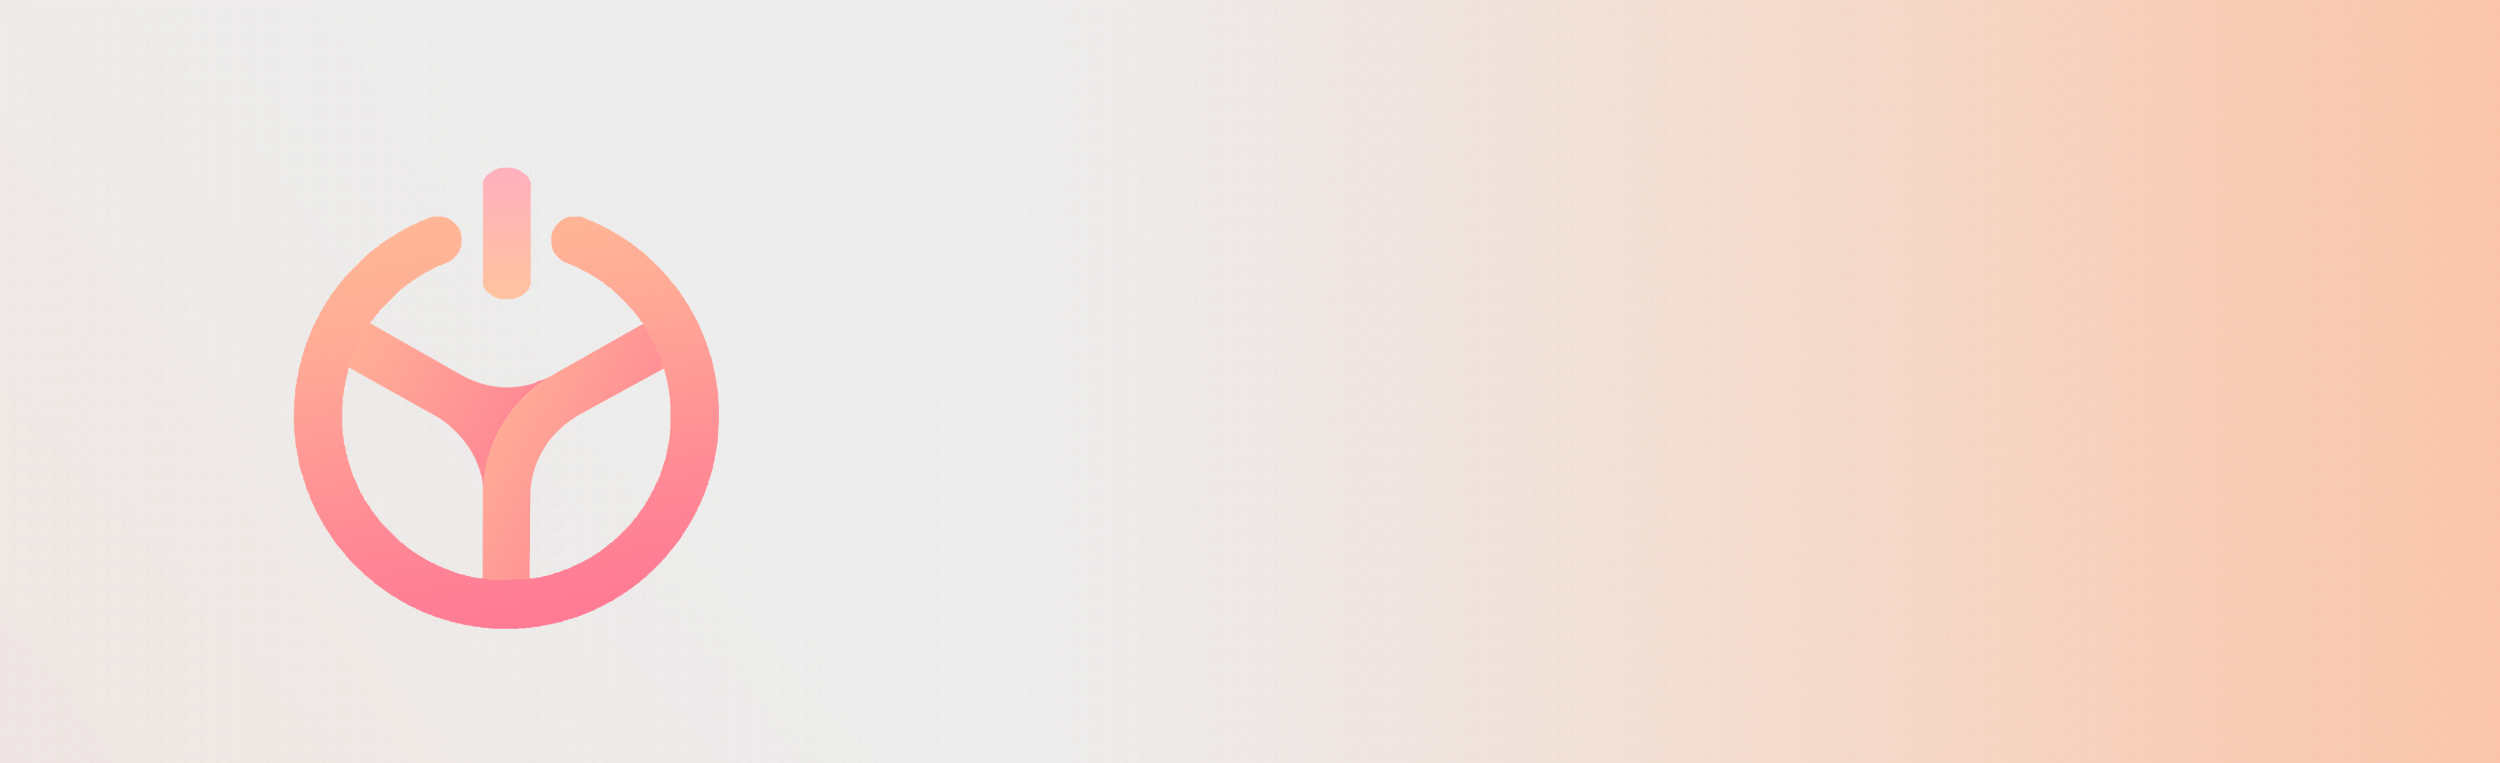
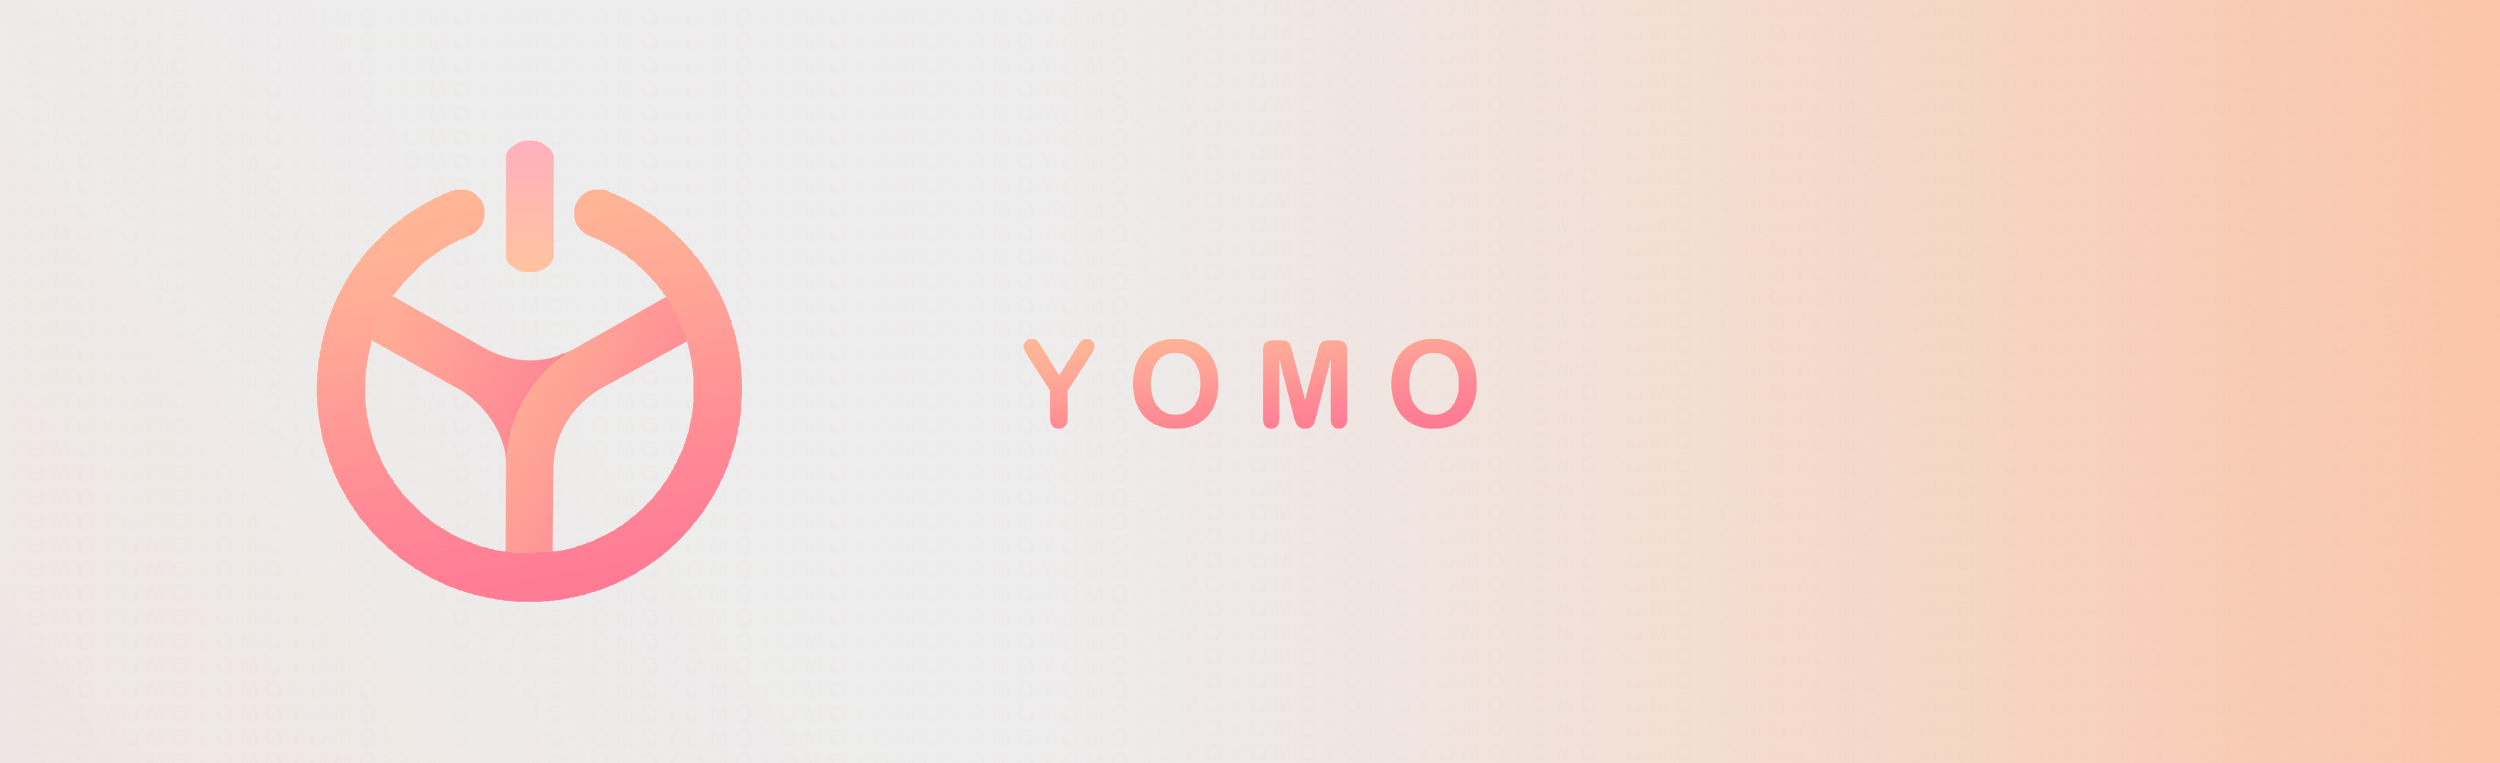
Fix: General Fixes

Changed region(s): [[0.0936, 0.1809, 0.312, 0.844], [0.4056, 0.422, 0.5928, 0.5727]]

diff --git a/falconair.html b/falconair.html
@@ -1,0 +1,264 @@
+<!DOCTYPE html>
+<html>
+  <head>
+    <link
+      href="https://www.dafontfree.net/embed/YXZlcnRhLWRlbW8tcGUtZXh0cmFib2xkLWl0YWxpYyZkYXRhLzMxOC9hLzE5MTM5NS9BdmVydGFEZW1vUEUtRXh0cmFib2xkSXRhbGljLm90Zg"
+      rel="stylesheet"
+      type="text/css"
+    />
+
+    <style>
+      @media only screen and (max-width: 767px) {
+        header h2 {
+          font-size: 1em;
+        }
+        header p {
+          font-size: 1.2em;
+        }
+      }
+
+      .aptusnaslov a {
+        color: white;
+      }
+
+      .scrollable-images {
+        display: flex;
+        overflow-x: scroll;
+        white-space: nowrap;
+      }
+      .scrollable-images::-webkit-scrollbar {
+        width: 1px;
+        height: 6px;
+        background-color: #f5f5f5;
+      }
+      ::-webkit-scrollbar-thumb {
+        background: rgb(229, 85, 109);
+      }
+
+      /* Handle on hover */
+      ::-webkit-scrollbar-thumb:hover {
+        background: #555;
+      }
+      .scrollable-images img {
+        height: 400px;
+        margin: 50px 0px 50px 0px;
+        opacity: 1;
+        transition: opacity 1s ease-in-out;
+      }
+      .scrollable-images img.scrolling {
+        opacity: 0;
+        animation: fadeOut 0.2 ease-in-out forwards;
+      }
+      @keyframes fadeOut {
+        from {
+          opacity: 1;
+        }
+        to {
+          opacity: 0;
+        }
+      }
+    </style>
+    <title>Aptus</title>
+    <meta charset="utf-8" />
+    <meta
+      name="viewport"
+      content="width=device-width, initial-scale=1, user-scalable=no"
+    />
+    <link rel="stylesheet" href="assets/css/main.css" />
+    <noscript
+      ><link rel="stylesheet" href="assets/css/noscript.css"
+    /></noscript>
+  </head>
+  <body class="is-preload">
+    <!-- Page Wrapper -->
+    <div id="page-wrapper">
+      <!-- Header -->
+      <header id="header">
+        <h1 class="aptusnaslov"><a href="index.html">Falcon Air</a></h1>
+        <nav id="nav">
+          <ul>
+            <li class="special">
+              <a href="#menu" class="menuToggle"><span></span></a>
+              <div id="menu">
+                <ul>
+                  <li><a href="index.html">Home</a></li>
+                  <li><a href="index.html">About</a></li>
+                  <li><a href="aptus.html">Aptus</a></li>
+                  <li><a href="yomo.html">Yomo</a></li>
+                  <li><a href="falconair.html">Falcon Air</a></li>
+                  <li><a href="cozylibrary.html">Cozy Library</a></li>
+                  <li><a href="absolutefit.html">Absolutefit</a></li>
+                  <li><a href="index.html">Contact</a></li>
+                </ul>
+              </div>
+            </li>
+          </ul>
+        </nav>
+      </header>
+
+      <!-- Main -->
+      <article id="main">
+        <header
+          style="
+            position: relative;
+            background-image: url(images/falconairbanner.jpg);
+            background-size: cover;
+            scale: 100%;
+          "
+        ></header>
+        <!-- 
+        <header style="position: relative; border: none; background-color:rgb(255, 142, 161)">
+          <img
+            src="images/aptusbanner.jpg"
+            style="width: 100%; height: 100%; max-width: 100%; max-height: 100%; border: none;"
+          />
+          <div
+            style="
+              position: absolute;
+              top: 50%;
+              left: 50%;
+              transform: translate(-50%, -50%);
+              text-align: center;
+            "
+          >
+            <h2 style="margin: 0">APTUS</h2>
+            <p style="margin: 0">Fitness App For Beginners</p>
+          </div>
+        </header>  -->
+
+        <section class="wrapper style5">
+          <div class="inner">
+            <h3>Role & Responsibilities</h3>
+            <p class="role">
+              Graphic Designer <br />
+              <br />
+              • Logo Creation <br />
+              • Typography <br />
+              • Usability Test <br />
+              • Visual Design
+            </p>
+
+            <hr />
+
+            <h3>Overview</h3>
+            <p class="overview">
+              It's really hard for small cities to have a simple and reliable
+              way of transport without spending too much financial resources.
+              Yomo was created as a solution to this problem and it offers a
+              simple way of navigating through the city, doing good both for the
+              city and the users.
+            </p>
+
+            <p>
+              It has two types of users:<br />
+              • Drivers who look for potential users who are looking for a
+              driver at the given moment. <br />
+              • Riders who look for currently available drivers. <br />
+              <br />
+              When driver leaves the rider at their targeted last stop, both of
+              them have the ability to rate their experience on each other,
+              making the app very user friendly.
+            </p>
+
+            <hr />
+
+            <h3>Context</h3>
+            <p>
+              This is my first project on a team. My job was to do research on
+              what is really needed in our local city and when it was later
+              decited to make a simple UI/UX prototype for the choosen app. This
+              was also my first time working in AdobeXD and getting fammiliar
+              with the abilities that the software has to offer.
+            </p>
+
+            <hr />
+
+            <h3>Prototype</h3>
+
+            <div class="scrollable-images">
+              <img src="images/yomo1.jpg" alt="Image 1" />
+              <img src="images/yomo2.jpg" alt="Image 2" />
+              <img src="images/yomo3.jpg" alt="Image 3" />
+              <img src="images/yomo3.1.jpg" alt="Image 4" />
+              <img src="images/yomo4.jpg" alt="Image 5" />
+              <img src="images/yomo5.jpg" alt="Image 6" />
+              <img src="images/yomo6.jpg" alt="Image 7" />
+              <img src="images/yomo7.jpg" alt="Image 8" />
+              <img src="images/yomo8.jpg" alt="Image 9" />
+              <img src="images/yomo9.jpg" alt="Image 10" />
+              <img src="images/yomo10.jpg" alt="Image 10" />
+              <img src="images/yomo11.jpg" alt="Image 10" />
+              <img src="images/yomo12.jpg" alt="Image 10" />
+              <img src="images/yomo13.jpg" alt="Image 10" />
+            </div>
+
+            <br />
+            <br />
+            <hr />
+            <h3>Full App:</h3>
+            <p>
+              You can find the full app including documentation and user flow
+              diagrams on this link:
+              <a
+                class="link"
+                href="https://github.com/huzbasicamila/Taxi-aplikacija"
+                >Yomo</a
+              >
+            </p>
+          </div>
+        </section>
+      </article>
+
+      <!-- Footer -->
+      <footer id="footer">
+        <ul class="icons">
+          <p>
+            <br />
+            FEEL FREE TO CONTACT ME, I WILL ANSWER AS SOON AS POSSIBLE<br />
+            <br />
+          </p>
+          <li>
+            <a
+              href="https://www.linkedin.com/in/ismail-ganibegovi%C4%87/"
+              class="icon brands fa-linkedin"
+              ><span class="label">LinkedIn</span></a
+            >
+          </li>
+          <li>
+            <a
+              href="https://github.com/GanibegovicIsmail"
+              class="icon brands fa-github"
+              ><span class="label">Github</span></a
+            >
+          </li>
+          <li>
+            <a
+              href="https://www.instagram.com/ganibegovicismail/"
+              class="icon brands fa-instagram"
+              ><span class="label">Instagram</span></a
+            >
+          </li>
+          <li>
+            <a
+              href="https://www.facebook.com/hemuli.7/"
+              class="icon brands fa-facebook"
+              ><span class="label">Facebook</span></a
+            >
+          </li>
+        </ul>
+        <ul class="copyright">
+          <li>&copy; Ismail Ganibegovic</li>
+        </ul>
+      </footer>
+    </div>
+
+    <!-- Scripts -->
+    <script src="assets/js/jquery.min.js"></script>
+    <script src="assets/js/jquery.scrollex.min.js"></script>
+    <script src="assets/js/jquery.scrolly.min.js"></script>
+    <script src="assets/js/browser.min.js"></script>
+    <script src="assets/js/breakpoints.min.js"></script>
+    <script src="assets/js/util.js"></script>
+    <script src="assets/js/main.js"></script>
+  </body>
+</html>

diff --git a/yomo.html b/yomo.html
@@ -99,45 +99,26 @@
             background-size: cover;
             scale: 100%;
           "
+        ></header>
+
+        <!-- <header
+          style="
+            position: relative;
+            border: none;
+            background-color: rgb(255, 142, 161);
+          "
         >
-          <h2
-            style="
-              font-size: xxx-large;
-              text-align: center;
-              color: rgb(255, 157, 150);
-            "
-          >
-            YOMO
-          </h2>
-          <p
-            style="
-              font-size: xx-large;
-              text-align: center;
-              color: rgb(255, 157, 150);
-            "
-          >
-            Simple Taxi App
-          </p>
-        </header>
-        <!-- 
-        <header style="position: relative; border: none; background-color:rgb(255, 142, 161)">
           <img
-            src="images/aptusbanner.jpg"
-            style="width: 100%; height: 100%; max-width: 100%; max-height: 100%; border: none;"
-          />
-          <div
+            src="images/yomobanner.jpg"
             style="
-              position: absolute;
-              top: 50%;
-              left: 50%;
-              transform: translate(-50%, -50%);
-              text-align: center;
+              width: 100%;
+              height: 100%;
+              max-width: 100%;
+              max-height: 100%;
+              border: none;
             "
-          >
-            <h2 style="margin: 0">APTUS</h2>
-            <p style="margin: 0">Fitness App For Beginners</p>
-          </div>
-        </header>  -->
+          />
+        </header> -->
 
         <section class="wrapper style5">
           <div class="inner">

diff --git a/index.html b/index.html
@@ -1,6 +1,11 @@
 <!DOCTYPE html>
 <html>
   <head>
+    <link
+      href="https://www.dafontfree.net/embed/YXZlcnRhLWRlbW8tcGUtZXh0cmFib2xkLWl0YWxpYyZkYXRhLzMxOC9hLzE5MTM5NS9BdmVydGFEZW1vUEUtRXh0cmFib2xkSXRhbGljLm90Zg"
+      rel="stylesheet"
+      type="text/css"
+    />
     <title>IsmailGanibegovicPortfolio</title>
     <meta charset="utf-8" />
     <meta
